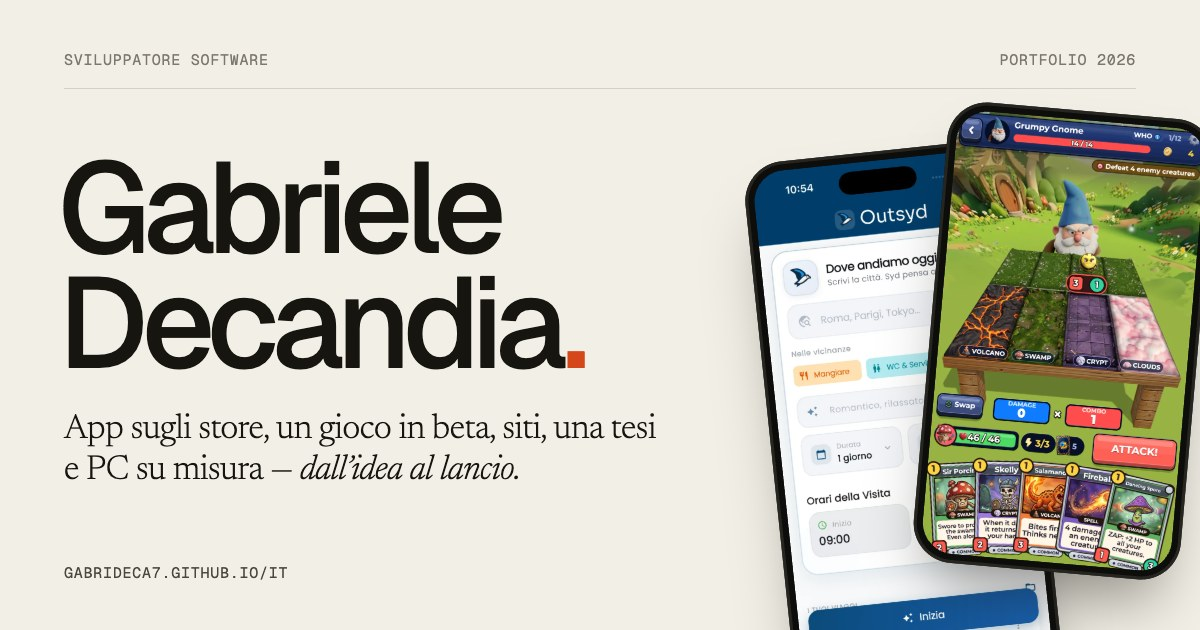
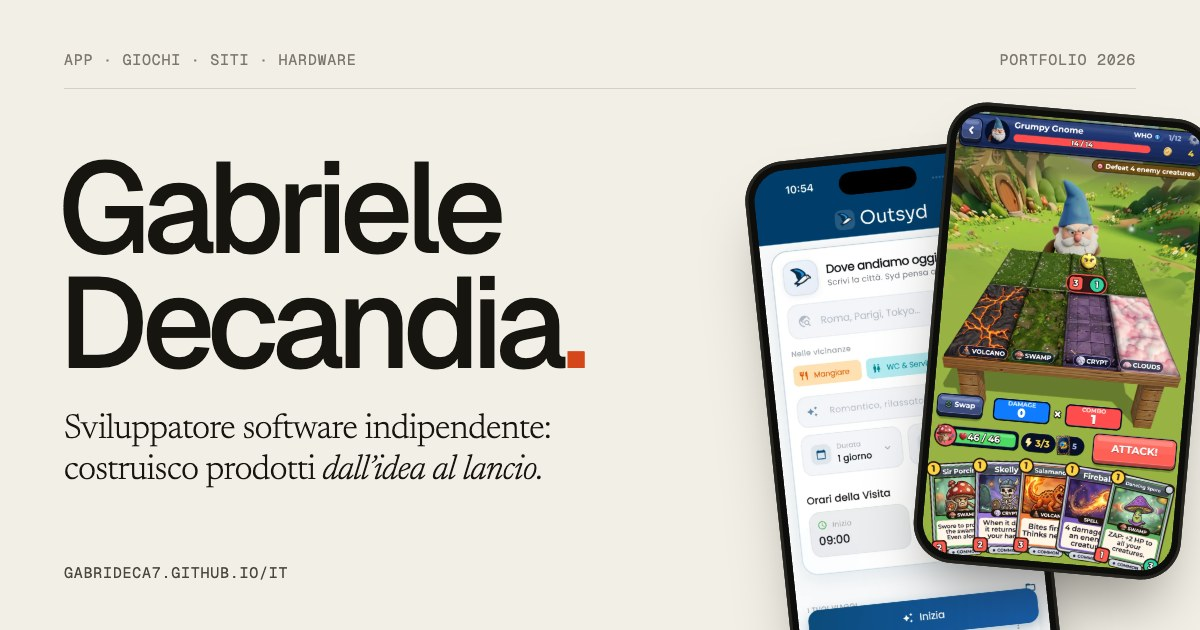
Positioning: independent software developer building products from idea to launch

Changed region(s): [[0.0308, 0.6635, 0.555, 0.7841], [0.0617, 0.0905, 0.3083, 0.1206]]

diff --git a/it/index.html b/it/index.html
@@ -3,8 +3,8 @@
 <head>
   <meta charset="utf-8">
   <meta name="viewport" content="width=device-width, initial-scale=1">
-  <title>Gabriele Decandia — Sviluppatore software</title>
-  <meta name="description" content="Gabriele Decandia sviluppa software dall’idea al lancio: Outsyd, travel planner con AI su iOS e Android; Zaptopia, un gioco di carte roguelike in beta; siti per attività locali; una tesi di machine learning; PC assemblati su misura.">
+  <title>Gabriele Decandia — Sviluppatore software indipendente</title>
+  <meta name="description" content="Gabriele Decandia è uno sviluppatore software indipendente che porta i prodotti dall’idea al lancio: Outsyd, travel planner con AI su iOS e Android; Zaptopia, un gioco di carte roguelike in beta; siti per attività locali; una tesi di machine learning; PC assemblati su misura.">
   <link rel="canonical" href="https://gabrideca7.github.io/it/">
   <link rel="alternate" hreflang="en" href="https://gabrideca7.github.io/">
   <link rel="alternate" hreflang="it" href="https://gabrideca7.github.io/it/">
@@ -13,8 +13,8 @@
 
   <meta property="og:type" content="website">
   <meta property="og:site_name" content="Gabriele Decandia">
-  <meta property="og:title" content="Gabriele Decandia — Sviluppatore software">
-  <meta property="og:description" content="App sugli store, un gioco in beta, siti per attività locali e una tesi di machine learning — dall’idea al lancio.">
+  <meta property="og:title" content="Gabriele Decandia — Sviluppatore software indipendente">
+  <meta property="og:description" content="Prodotti dall’idea al lancio: app sugli store, un gioco in beta, siti per attività locali, una tesi di machine learning e PC assemblati su misura.">
   <meta property="og:url" content="https://gabrideca7.github.io/it/">
   <meta property="og:locale" content="it_IT">
   <meta property="og:image" content="https://gabrideca7.github.io/assets/img/og-it.jpg">
@@ -29,7 +29,7 @@
 
   <link rel="preload" href="../assets/fonts/geist.woff2" as="font" type="font/woff2" crossorigin>
   <link rel="preload" href="../assets/fonts/newsreader.woff2" as="font" type="font/woff2" crossorigin>
-  <link rel="stylesheet" href="../assets/css/style.css?v=2026102202">
+  <link rel="stylesheet" href="../assets/css/style.css?v=2026102401">
   <script>
     (function () {
       var d = document.documentElement;
@@ -37,7 +37,7 @@
       try { var t = localStorage.getItem('theme'); if (t === 'dark' || t === 'light') d.dataset.theme = t; } catch (e) {}
     })();
   </script>
-  <script src="../assets/js/main.js?v=2026102202" defer></script>
+  <script src="../assets/js/main.js?v=2026102401" defer></script>
   <script type="application/ld+json">
   {
     "@context": "https://schema.org",
@@ -45,7 +45,7 @@
     "name": "Gabriele Decandia",
     "url": "https://gabrideca7.github.io/it/",
     "email": "mailto:g.deca7@gmail.com",
-    "jobTitle": "Software developer",
+    "jobTitle": "Sviluppatore software indipendente",
     "image": "https://gabrideca7.github.io/assets/img/about/portrait-760.webp",
     "homeLocation": { "@type": "Place", "name": "Altamura, Italy" },
     "sameAs": ["https://github.com/gabrideca7"]
@@ -77,7 +77,7 @@
     <!-- Hero -->
     <section class="hero wrap" aria-labelledby="hero-title">
       <div class="hero-top">
-        <span class="label">Sviluppatore software</span>
+        <span class="label">App · Giochi · Siti · Hardware</span>
         <span class="label">Portfolio — Edizione 2026</span>
       </div>
 
@@ -88,7 +88,7 @@
 
       <div class="grid hero-grid">
         <p class="lede hero-lede reveal">
-          Sviluppo software dall’inizio alla fine — <em>prodotto, design, codice e lancio.</em>
+          <span class="lede-lead">Sviluppatore software indipendente: costruisco prodotti <em>dall’idea al lancio.</em></span>
           Un’app di viaggi pubblicata su entrambi gli store, un gioco mobile in beta, siti per le attività
           della mia città, una tesi di machine learning costruita sulla mia app — e tanti PC assemblati su misura.
         </p>
@@ -373,7 +373,7 @@
           </div>
         </div>
         <div class="about-body">
-          <p class="lede reveal">Sono Gabriele, sviluppatore di Altamura — una città sull’altopiano della Murgia, in Puglia, <em>famosa soprattutto per il suo pane.</em></p>
+          <p class="lede reveal">Sono Gabriele, sviluppatore indipendente di Altamura — una città sull’altopiano della Murgia, in Puglia, <em>famosa soprattutto per il suo pane.</em></p>
           <div class="prose reveal">
             <p>Outsyd è nata da un fastidio personale: arrivare in una città di porto con poche ore a disposizione e nessun piano. L’ho sviluppata durante la triennale in Informatica, l’ho pubblicata su entrambi gli store e da allora non ho mai smesso di aggiornarla — funzionalità, correzioni, note di rilascio, schede degli store, partnership di affiliazione e un account TikTok per portare utenti.</p>
             <p>Strada facendo ho iniziato a costruire anche per le persone intorno a me: un sito vetrina per il laboratorio di divani di mio zio, un negozio online per un caseificio di famiglia e, quest’autunno, un gioco tutto mio.</p>

diff --git a/index.html b/index.html
@@ -3,8 +3,8 @@
 <head>
   <meta charset="utf-8">
   <meta name="viewport" content="width=device-width, initial-scale=1">
-  <title>Gabriele Decandia — Developer & product builder</title>
-  <meta name="description" content="Gabriele Decandia builds software end to end: Outsyd, an AI travel planner live on iOS and Android; Zaptopia, a roguelike card game in beta; websites for local businesses; and a machine-learning thesis.">
+  <title>Gabriele Decandia — Independent software developer</title>
+  <meta name="description" content="Gabriele Decandia is an independent software developer building products from idea to launch: Outsyd, an AI travel planner live on iOS and Android; Zaptopia, a roguelike card game in beta; websites for local businesses; a machine-learning thesis; custom-built PCs.">
   <link rel="canonical" href="https://gabrideca7.github.io/">
   <link rel="alternate" hreflang="en" href="https://gabrideca7.github.io/">
   <link rel="alternate" hreflang="it" href="https://gabrideca7.github.io/it/">
@@ -13,8 +13,8 @@
 
   <meta property="og:type" content="website">
   <meta property="og:site_name" content="Gabriele Decandia">
-  <meta property="og:title" content="Gabriele Decandia — Developer & product builder">
-  <meta property="og:description" content="Apps on the stores, a game in beta, websites for local businesses and a machine-learning thesis — built end to end.">
+  <meta property="og:title" content="Gabriele Decandia — Independent software developer">
+  <meta property="og:description" content="Building products from idea to launch: apps on the stores, a game in beta, websites for local businesses, a machine-learning thesis and custom-built PCs.">
   <meta property="og:url" content="https://gabrideca7.github.io/">
   <meta property="og:image" content="https://gabrideca7.github.io/assets/img/og.jpg">
   <meta property="og:image:width" content="1200">
@@ -28,7 +28,7 @@
 
   <link rel="preload" href="assets/fonts/geist.woff2" as="font" type="font/woff2" crossorigin>
   <link rel="preload" href="assets/fonts/newsreader.woff2" as="font" type="font/woff2" crossorigin>
-  <link rel="stylesheet" href="assets/css/style.css?v=2026102202">
+  <link rel="stylesheet" href="assets/css/style.css?v=2026102401">
   <script>
     (function () {
       var d = document.documentElement;
@@ -36,7 +36,7 @@
       try { var t = localStorage.getItem('theme'); if (t === 'dark' || t === 'light') d.dataset.theme = t; } catch (e) {}
     })();
   </script>
-  <script src="assets/js/main.js?v=2026102202" defer></script>
+  <script src="assets/js/main.js?v=2026102401" defer></script>
   <script type="application/ld+json">
   {
     "@context": "https://schema.org",
@@ -44,7 +44,7 @@
     "name": "Gabriele Decandia",
     "url": "https://gabrideca7.github.io/",
     "email": "mailto:g.deca7@gmail.com",
-    "jobTitle": "Software developer",
+    "jobTitle": "Independent software developer",
     "image": "https://gabrideca7.github.io/assets/img/about/portrait-760.webp",
     "homeLocation": { "@type": "Place", "name": "Altamura, Italy" },
     "sameAs": ["https://github.com/gabrideca7"]
@@ -76,7 +76,7 @@
     <!-- Hero -->
     <section class="hero wrap" aria-labelledby="hero-title">
       <div class="hero-top">
-        <span class="label">Developer &amp; product builder</span>
+        <span class="label">Apps · Games · Websites · Hardware</span>
         <span class="label">Portfolio — Edition 2026</span>
       </div>
 
@@ -87,7 +87,7 @@
 
       <div class="grid hero-grid">
         <p class="lede hero-lede reveal">
-          I build software end to end — <em>product, design, code and launch.</em>
+          <span class="lede-lead">Independent software developer building products <em>from idea to launch.</em></span>
           A travel app live on both app stores, a mobile game in beta, websites for businesses
           in my hometown, a machine-learning thesis built on my own app — and plenty of custom-built PCs.
         </p>
@@ -372,7 +372,7 @@
           </div>
         </div>
         <div class="about-body">
-          <p class="lede reveal">I’m Gabriele, a developer from Altamura — a town on the Murgia plateau in southern Italy, <em>famous mostly for its bread.</em></p>
+          <p class="lede reveal">I’m Gabriele, an independent developer from Altamura — a town on the Murgia plateau in southern Italy, <em>famous mostly for its bread.</em></p>
           <div class="prose reveal">
             <p>Outsyd started from a personal annoyance: arriving in a port city with a few hours and no plan. I built it during my bachelor’s in Computer Science, put it on both app stores and have kept shipping since — features, fixes, release notes, store listings, affiliate partnerships and a TikTok account to bring people in.</p>
             <p>Along the way I started building for the people around me: a showcase site for my uncle’s sofa workshop, an online shop for a family dairy and, this autumn, a game of my own.</p>

diff --git a/it/work/sentinel.html b/it/work/sentinel.html
@@ -21,7 +21,7 @@
   <link rel="apple-touch-icon" href="../../apple-touch-icon.png">
   <link rel="preload" href="../../assets/fonts/geist.woff2" as="font" type="font/woff2" crossorigin>
   <link rel="preload" href="../../assets/data/sentinel-model.json" as="fetch" type="application/json" crossorigin>
-  <link rel="stylesheet" href="../../assets/css/style.css?v=2026102202">
+  <link rel="stylesheet" href="../../assets/css/style.css?v=2026102401">
   <script>
     (function () {
       var d = document.documentElement;
@@ -29,7 +29,7 @@
       try { var t = localStorage.getItem('theme'); if (t === 'dark' || t === 'light') d.dataset.theme = t; } catch (e) {}
     })();
   </script>
-  <script src="../../assets/js/main.js?v=2026102202" defer></script>
+  <script src="../../assets/js/main.js?v=2026102401" defer></script>
 </head>
 <body>
   <a class="skip-link" href="#main">Vai al contenuto</a>

diff --git a/work/sentinel.html b/work/sentinel.html
@@ -20,7 +20,7 @@
   <link rel="apple-touch-icon" href="../apple-touch-icon.png">
   <link rel="preload" href="../assets/fonts/geist.woff2" as="font" type="font/woff2" crossorigin>
   <link rel="preload" href="../assets/data/sentinel-model.json" as="fetch" type="application/json" crossorigin>
-  <link rel="stylesheet" href="../assets/css/style.css?v=2026102202">
+  <link rel="stylesheet" href="../assets/css/style.css?v=2026102401">
   <script>
     (function () {
       var d = document.documentElement;
@@ -28,7 +28,7 @@
       try { var t = localStorage.getItem('theme'); if (t === 'dark' || t === 'light') d.dataset.theme = t; } catch (e) {}
     })();
   </script>
-  <script src="../assets/js/main.js?v=2026102202" defer></script>
+  <script src="../assets/js/main.js?v=2026102401" defer></script>
 </head>
 <body>
   <a class="skip-link" href="#main">Skip to content</a>

diff --git a/it/work/nicoletti.html b/it/work/nicoletti.html
@@ -20,7 +20,7 @@
   <link rel="icon" href="../../favicon.png" type="image/png" sizes="64x64">
   <link rel="apple-touch-icon" href="../../apple-touch-icon.png">
   <link rel="preload" href="../../assets/fonts/geist.woff2" as="font" type="font/woff2" crossorigin>
-  <link rel="stylesheet" href="../../assets/css/style.css?v=2026102202">
+  <link rel="stylesheet" href="../../assets/css/style.css?v=2026102401">
   <script>
     (function () {
       var d = document.documentElement;
@@ -28,7 +28,7 @@
       try { var t = localStorage.getItem('theme'); if (t === 'dark' || t === 'light') d.dataset.theme = t; } catch (e) {}
     })();
   </script>
-  <script src="../../assets/js/main.js?v=2026102202" defer></script>
+  <script src="../../assets/js/main.js?v=2026102401" defer></script>
 </head>
 <body>
   <a class="skip-link" href="#main">Vai al contenuto</a>

diff --git a/it/work/outsyd.html b/it/work/outsyd.html
@@ -20,7 +20,7 @@
   <link rel="icon" href="../../favicon.png" type="image/png" sizes="64x64">
   <link rel="apple-touch-icon" href="../../apple-touch-icon.png">
   <link rel="preload" href="../../assets/fonts/geist.woff2" as="font" type="font/woff2" crossorigin>
-  <link rel="stylesheet" href="../../assets/css/style.css?v=2026102202">
+  <link rel="stylesheet" href="../../assets/css/style.css?v=2026102401">
   <script>
     (function () {
       var d = document.documentElement;
@@ -28,7 +28,7 @@
       try { var t = localStorage.getItem('theme'); if (t === 'dark' || t === 'light') d.dataset.theme = t; } catch (e) {}
     })();
   </script>
-  <script src="../../assets/js/main.js?v=2026102202" defer></script>
+  <script src="../../assets/js/main.js?v=2026102401" defer></script>
 </head>
 <body>
   <a class="skip-link" href="#main">Vai al contenuto</a>

diff --git a/it/work/rinaldi.html b/it/work/rinaldi.html
@@ -20,7 +20,7 @@
   <link rel="icon" href="../../favicon.png" type="image/png" sizes="64x64">
   <link rel="apple-touch-icon" href="../../apple-touch-icon.png">
   <link rel="preload" href="../../assets/fonts/geist.woff2" as="font" type="font/woff2" crossorigin>
-  <link rel="stylesheet" href="../../assets/css/style.css?v=2026102202">
+  <link rel="stylesheet" href="../../assets/css/style.css?v=2026102401">
   <script>
     (function () {
       var d = document.documentElement;
@@ -28,7 +28,7 @@
       try { var t = localStorage.getItem('theme'); if (t === 'dark' || t === 'light') d.dataset.theme = t; } catch (e) {}
     })();
   </script>
-  <script src="../../assets/js/main.js?v=2026102202" defer></script>
+  <script src="../../assets/js/main.js?v=2026102401" defer></script>
 </head>
 <body>
   <a class="skip-link" href="#main">Vai al contenuto</a>

diff --git a/it/work/zaptopia.html b/it/work/zaptopia.html
@@ -20,7 +20,7 @@
   <link rel="icon" href="../../favicon.png" type="image/png" sizes="64x64">
   <link rel="apple-touch-icon" href="../../apple-touch-icon.png">
   <link rel="preload" href="../../assets/fonts/geist.woff2" as="font" type="font/woff2" crossorigin>
-  <link rel="stylesheet" href="../../assets/css/style.css?v=2026102202">
+  <link rel="stylesheet" href="../../assets/css/style.css?v=2026102401">
   <script>
     (function () {
       var d = document.documentElement;
@@ -28,7 +28,7 @@
       try { var t = localStorage.getItem('theme'); if (t === 'dark' || t === 'light') d.dataset.theme = t; } catch (e) {}
     })();
   </script>
-  <script src="../../assets/js/main.js?v=2026102202" defer></script>
+  <script src="../../assets/js/main.js?v=2026102401" defer></script>
 </head>
 <body>
   <a class="skip-link" href="#main">Vai al contenuto</a>

diff --git a/work/nicoletti.html b/work/nicoletti.html
@@ -19,7 +19,7 @@
   <link rel="icon" href="../favicon.png" type="image/png" sizes="64x64">
   <link rel="apple-touch-icon" href="../apple-touch-icon.png">
   <link rel="preload" href="../assets/fonts/geist.woff2" as="font" type="font/woff2" crossorigin>
-  <link rel="stylesheet" href="../assets/css/style.css?v=2026102202">
+  <link rel="stylesheet" href="../assets/css/style.css?v=2026102401">
   <script>
     (function () {
       var d = document.documentElement;
@@ -27,7 +27,7 @@
       try { var t = localStorage.getItem('theme'); if (t === 'dark' || t === 'light') d.dataset.theme = t; } catch (e) {}
     })();
   </script>
-  <script src="../assets/js/main.js?v=2026102202" defer></script>
+  <script src="../assets/js/main.js?v=2026102401" defer></script>
 </head>
 <body>
   <a class="skip-link" href="#main">Skip to content</a>

diff --git a/work/outsyd.html b/work/outsyd.html
@@ -19,7 +19,7 @@
   <link rel="icon" href="../favicon.png" type="image/png" sizes="64x64">
   <link rel="apple-touch-icon" href="../apple-touch-icon.png">
   <link rel="preload" href="../assets/fonts/geist.woff2" as="font" type="font/woff2" crossorigin>
-  <link rel="stylesheet" href="../assets/css/style.css?v=2026102202">
+  <link rel="stylesheet" href="../assets/css/style.css?v=2026102401">
   <script>
     (function () {
       var d = document.documentElement;
@@ -27,7 +27,7 @@
       try { var t = localStorage.getItem('theme'); if (t === 'dark' || t === 'light') d.dataset.theme = t; } catch (e) {}
     })();
   </script>
-  <script src="../assets/js/main.js?v=2026102202" defer></script>
+  <script src="../assets/js/main.js?v=2026102401" defer></script>
 </head>
 <body>
   <a class="skip-link" href="#main">Skip to content</a>

diff --git a/work/rinaldi.html b/work/rinaldi.html
@@ -19,7 +19,7 @@
   <link rel="icon" href="../favicon.png" type="image/png" sizes="64x64">
   <link rel="apple-touch-icon" href="../apple-touch-icon.png">
   <link rel="preload" href="../assets/fonts/geist.woff2" as="font" type="font/woff2" crossorigin>
-  <link rel="stylesheet" href="../assets/css/style.css?v=2026102202">
+  <link rel="stylesheet" href="../assets/css/style.css?v=2026102401">
   <script>
     (function () {
       var d = document.documentElement;
@@ -27,7 +27,7 @@
       try { var t = localStorage.getItem('theme'); if (t === 'dark' || t === 'light') d.dataset.theme = t; } catch (e) {}
     })();
   </script>
-  <script src="../assets/js/main.js?v=2026102202" defer></script>
+  <script src="../assets/js/main.js?v=2026102401" defer></script>
 </head>
 <body>
   <a class="skip-link" href="#main">Skip to content</a>

diff --git a/work/zaptopia.html b/work/zaptopia.html
@@ -19,7 +19,7 @@
   <link rel="icon" href="../favicon.png" type="image/png" sizes="64x64">
   <link rel="apple-touch-icon" href="../apple-touch-icon.png">
   <link rel="preload" href="../assets/fonts/geist.woff2" as="font" type="font/woff2" crossorigin>
-  <link rel="stylesheet" href="../assets/css/style.css?v=2026102202">
+  <link rel="stylesheet" href="../assets/css/style.css?v=2026102401">
   <script>
     (function () {
       var d = document.documentElement;
@@ -27,7 +27,7 @@
       try { var t = localStorage.getItem('theme'); if (t === 'dark' || t === 'light') d.dataset.theme = t; } catch (e) {}
     })();
   </script>
-  <script src="../assets/js/main.js?v=2026102202" defer></script>
+  <script src="../assets/js/main.js?v=2026102401" defer></script>
 </head>
 <body>
   <a class="skip-link" href="#main">Skip to content</a>
